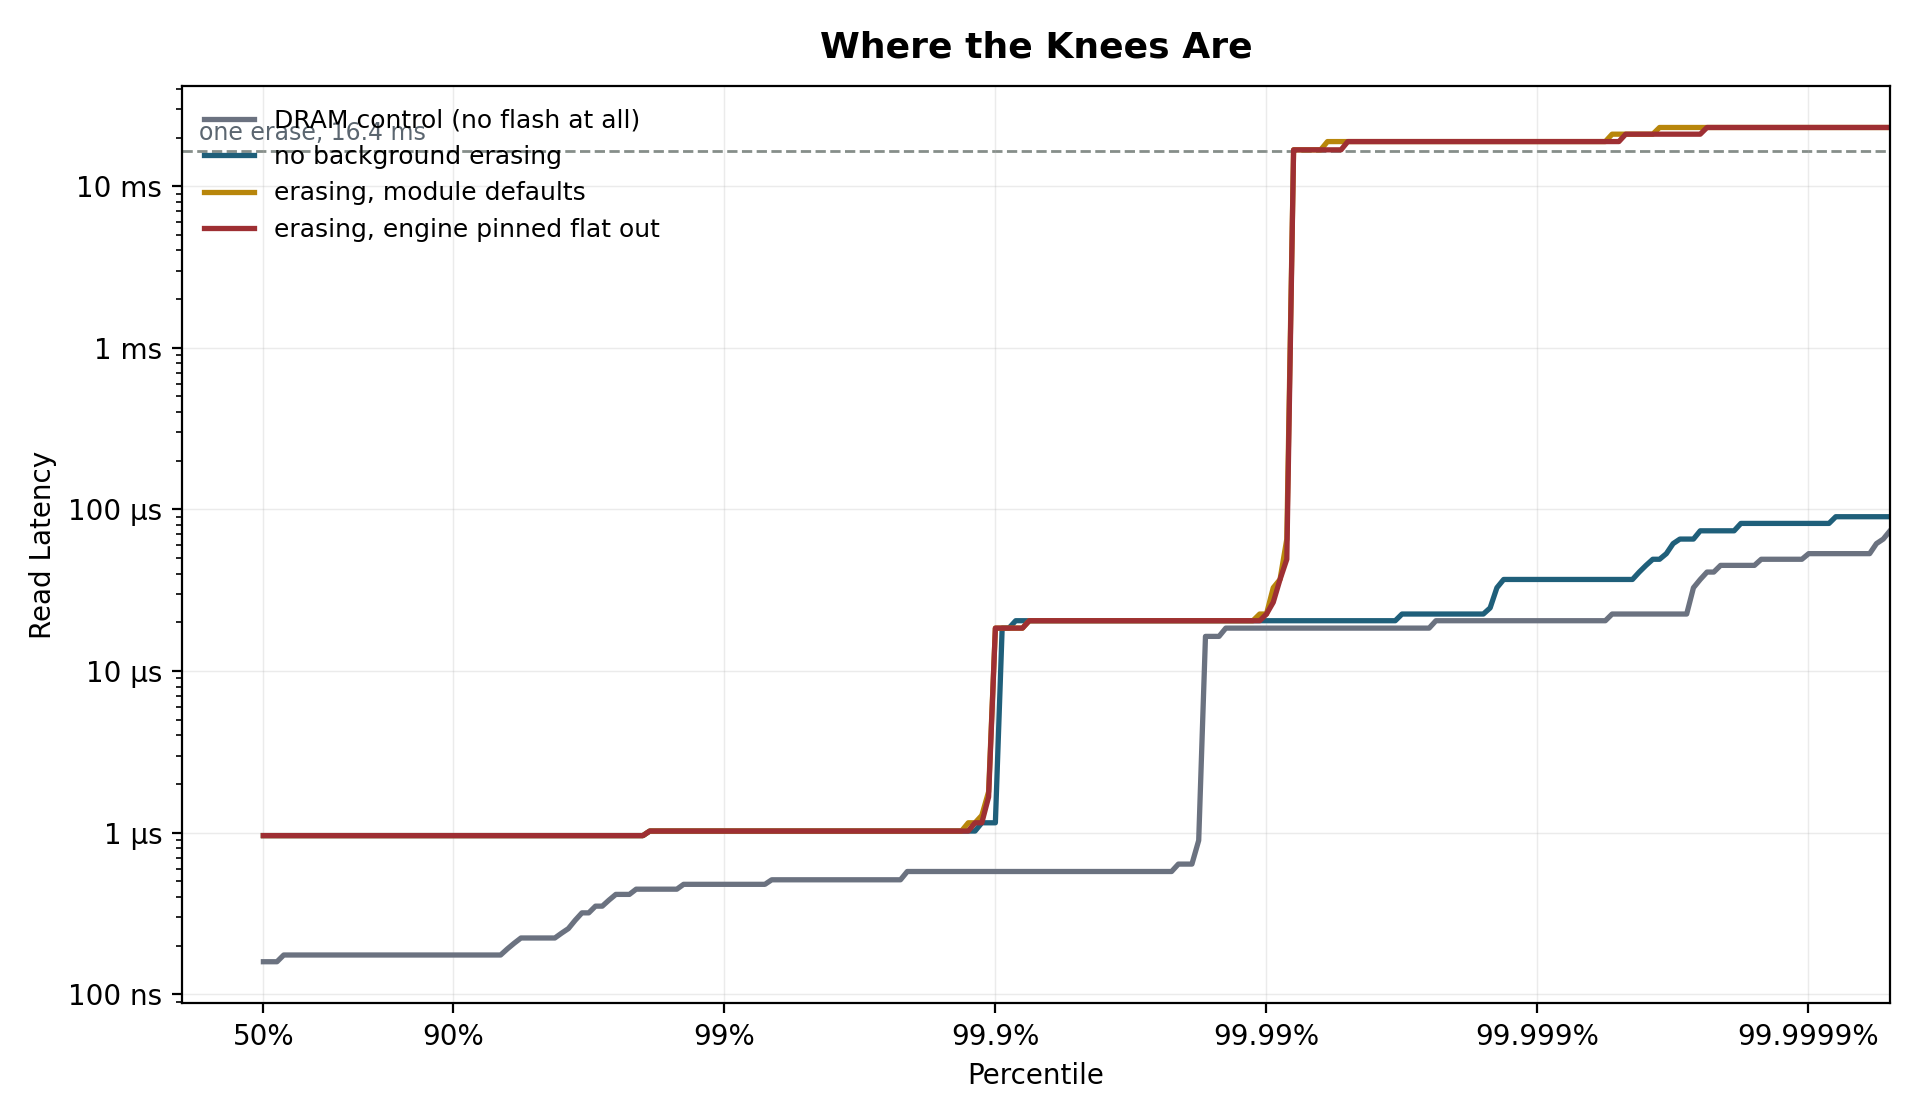
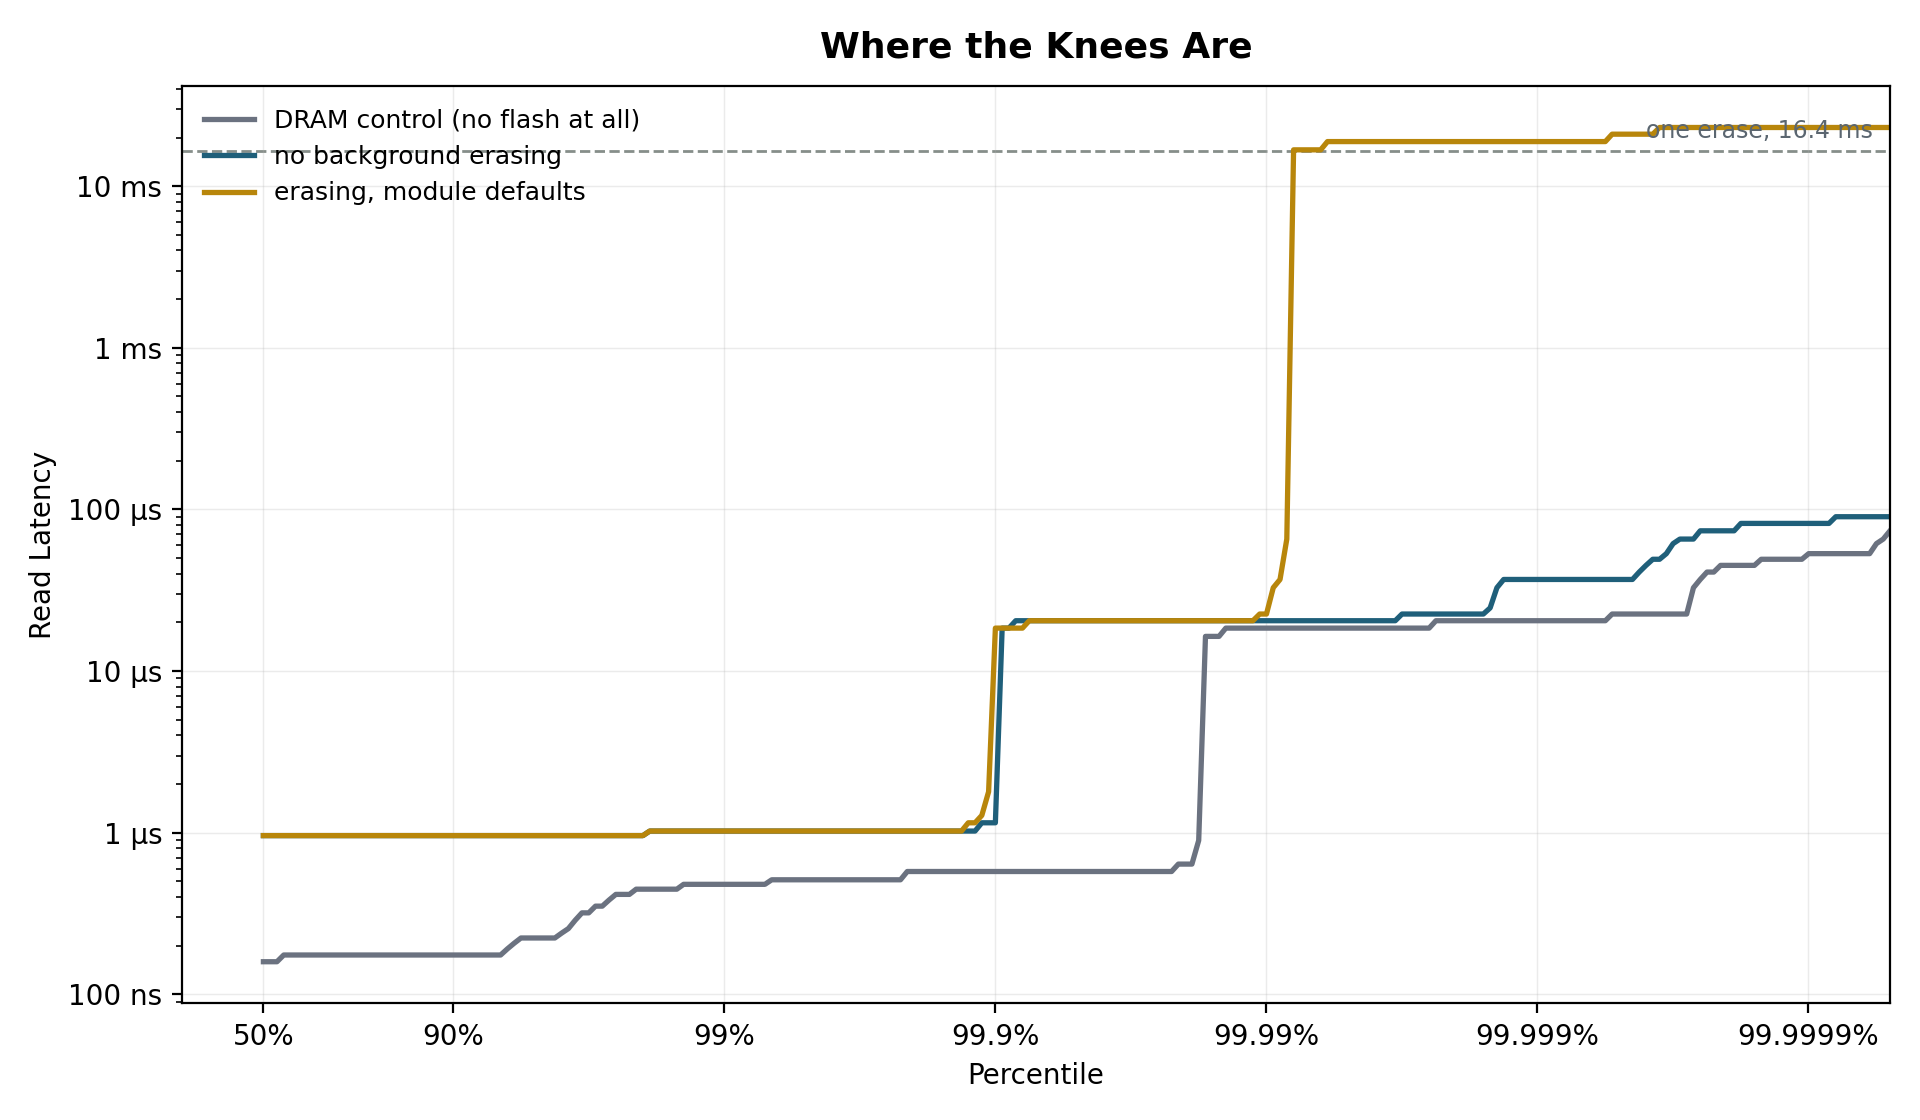
the erase spacing is gated on target_pid, so we measured the wrong point
lt_erase_work_fn picks its requeue delay from target_pid, not from the
watermarks:

    if (!lt_erase_engine_on)        delay_ms = erase_idle_ms;
    else if (READ_ONCE(target_pid)) delay_ms = erase_poll_ms;   /* 30 ms */
    else                            delay_ms = 0;

Every QoS phase clears target_pid to stop promotion and isolate the medium --
and that same step switches off the 30 ms spacing that exists to protect a
targeted reader. All three erase phases therefore ran back-to-back: 16.4 ms
erase plus ~13 ms overhead = 34/s, which is exactly the 34.2 and 34.3/s
measured. "1 in 12,300" is the unspaced worst case, not the operating point.

New phase: point target_pid at a sleeper. No promotable anonymous pages, so
nothing migrates and the reader stays isolated, but the engine takes the
spaced branch. At 30 + 16.4 ms that is ~21.6 erases/s, so roughly 35% fewer
stalls -- and it is the configuration a real workload actually sees.

Also explains why flat-out and module-defaults were indistinguishable. The
watermarks only drive the hysteresis latch, and clean rose just ~6,179 over
180 s, never reaching even the 8192 high-water, so the latch never turned off
in either. They were the same experiment. Both figures now hide flat-out,
since plotting both curves implies a comparison that was not being made.

diff --git a/scripts/plot_selftest.py b/scripts/plot_selftest.py
@@ -537,16 +537,25 @@ if r:
         return f"{ns/1e6:.1f} ms"
 
     LABEL = {"dram_control":    ("#6B7280", "DRAM control (no flash at all)"),
+             "engine_spaced":   ("#2F6B4F", "erasing, 30 ms spacing (real operating point)"),
              "engine_off":      (C_DRAM, "no background erasing"),
              "engine_normal":   ("#B8860B", "erasing, module defaults"),
              "engine_on":       ("#B8860B", "erasing, module defaults"),
              "engine_flat_out": (C_NOR,  "erasing, engine pinned flat out")}
-    order = ["dram_control", "engine_off", "engine_normal", "engine_on",
-             "engine_flat_out"]
+    order = ["dram_control", "engine_off", "engine_spaced", "engine_normal",
+             "engine_on", "engine_flat_out"]
     present = [c for c in order if any(x["condition"] == c for x in r)]
     present += sorted({x["condition"] for x in r} - set(order))
+    # engine_flat_out is omitted from the figures on purpose. The watermarks
+    # only drive the hysteresis latch; pacing comes from erase_poll_ms, and in
+    # these runs clean never reached even the 8192 high-water, so the latch
+    # never turned off in either condition -- flat out and module defaults were
+    # operationally the same experiment and measured within 0.3% of each other.
+    # The data stays in qos.csv; showing both curves implies a comparison that
+    # was not actually being made.
+    HIDE = {"engine_flat_out"}
     have = [(c,) + LABEL.get(c, (C_MODEL, c.replace("_", " "))) for c in present
-            if hist(c)]
+            if hist(c) and c not in HIDE]
     if have:
         QS = [(0.50, "p50"), (0.99, "p99"), (0.999, "p99.9"),
               (0.9999, "p99.99"), (0.99999, "p99.999"), (1.0, "max")]
@@ -630,9 +639,12 @@ if r:
             ys = [pct(cond, q) for q in qs]
             ax2.plot(xs, ys, "-", color=colour, lw=1.9, label=label)
         ax2.axhline(16_400_000, color=C_GRID, lw=1, ls="--", zorder=1)
-        ax2.annotate("one erase, 16.4 ms", (0.01, 16_400_000),
-                     xycoords=("axes fraction", "data"), xytext=(0, 4),
-                     textcoords="offset points", fontsize=8.5, color="#5b6670")
+        # Right-aligned: the legend owns the top-left, and the curves reach
+        # this line only at the far right, so the label sits over empty axis.
+        ax2.annotate("one erase, 16.4 ms", (0.99, 16_400_000),
+                     xycoords=("axes fraction", "data"), xytext=(0, 5),
+                     textcoords="offset points", ha="right",
+                     fontsize=8.5, color="#5b6670")
         ax2.set_yscale("log")
         ax2.set_xticks([nines(q) for q, _ in NINES])
         ax2.set_xticklabels([lab for _, lab in NINES])
